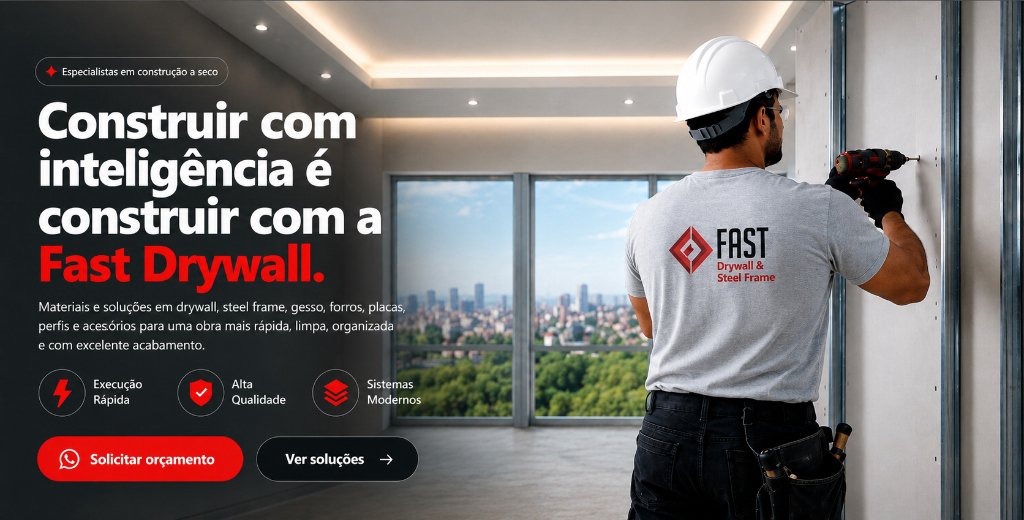
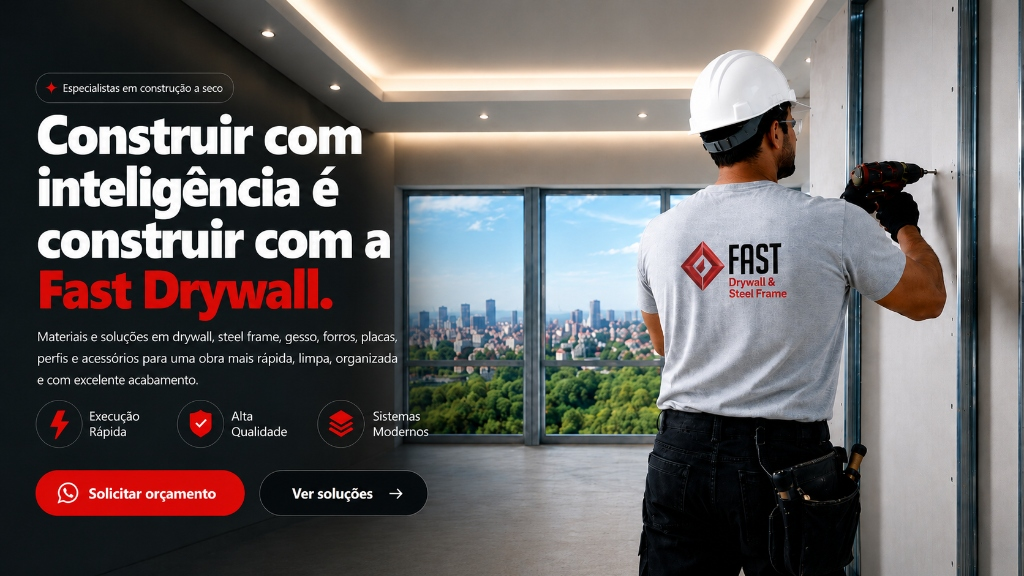
Apply final clean hero image with interactive WhatsApp CTA

diff --git a/src/routes/index.tsx b/src/routes/index.tsx
@@ -146,7 +146,7 @@ function Index() {
       </header>
 
       <main>
-        <section id="inicio" className="relative aspect-[1024/520] w-full overflow-hidden bg-zinc-950">
+        <section id="inicio" className="relative aspect-[16/9] w-full overflow-hidden bg-zinc-950">
           <img src={heroImage} alt="Fast Drywall: construir com inteligência" className="absolute inset-0 h-full w-full object-contain object-center" />
           <h1 className="sr-only">Construir com inteligência é construir com a Fast Drywall.</h1>
           <a
@@ -155,11 +155,11 @@ function Index() {
             rel="noopener noreferrer"
             onClick={(event) => handleExternal(event, budgetUrl)}
             aria-label="Solicitar orçamento pelo WhatsApp"
-            className="absolute bottom-[8.5%] left-[4.2%] z-10 flex h-[8.4%] w-[20%] cursor-pointer items-center justify-center rounded-full bg-[#d71920] font-black text-white text-[clamp(9px,1.25vw,17px)] leading-none shadow-lg transition-all duration-300 ease-in-out hover:scale-[1.03] hover:bg-[#25D366] hover:shadow-2xl hover:shadow-emerald-500/50 focus:outline-none focus:ring-4 focus:ring-emerald-400/60"
+            className="absolute bottom-[9.5%] left-[4.2%] z-10 flex h-[7.8%] w-[20%] cursor-pointer items-center justify-center rounded-full bg-[#d71920] font-black text-white text-[clamp(9px,1.25vw,17px)] leading-none shadow-lg transition-all duration-300 ease-in-out hover:scale-[1.03] hover:bg-[#25D366] hover:shadow-2xl hover:shadow-emerald-500/50 focus:outline-none focus:ring-4 focus:ring-emerald-400/60"
           >
             <span className="truncate px-1">Solicitar orçamento</span>
           </a>
-          <a href="#servicos" aria-label="Ver soluções" className="absolute bottom-[8.5%] left-[25.5%] z-10 flex h-[8.4%] w-[16.5%] cursor-pointer items-center justify-center rounded-full bg-transparent text-transparent focus:outline-none focus:ring-4 focus:ring-white/70">Ver soluções</a>
+          <a href="#servicos" aria-label="Ver soluções" className="absolute bottom-[9.5%] left-[25.5%] z-10 flex h-[7.8%] w-[16.5%] cursor-pointer items-center justify-center rounded-full bg-transparent text-transparent focus:outline-none focus:ring-4 focus:ring-white/70">Ver soluções</a>
         </section>
 
         <section id="sobre" className="py-20 lg:py-24"><div className="mx-auto grid max-w-7xl items-stretch gap-12 px-5 lg:grid-cols-2 lg:px-8"><div className="flex w-full items-center justify-center overflow-hidden rounded-3xl bg-white shadow-2xl lg:min-h-[560px]"><img src={storeImg} alt="Fachada da Fast Drywall em Vitória da Conquista" className="block h-auto max-h-[560px] w-full object-contain" /></div><div className="flex h-full flex-col justify-center"><p className="text-xs font-black uppercase tracking-[.25em] text-red-600">Quem somos</p><h2 className="mt-3 text-4xl font-black sm:text-5xl">Sua obra começa com a escolha certa.</h2><p className="mt-6 text-base leading-8 text-zinc-600">A Fast Drywall &amp; Steel Frame VCA é uma loja especializada em materiais e soluções para construção a seco em Vitória da Conquista. Trabalhamos com drywall, steel frame, placas, gesso, forros, perfis e acessórios, com atendimento especializado, variedade de produtos e suporte para sua obra.</p><div className="mt-8 grid gap-4 sm:grid-cols-2">{[{ icon: ShieldCheck, title: "Produtos de qualidade" }, { icon: Package, title: "Estoque completo" }, { icon: Users, title: "Equipe especializada" }, { icon: MessageCircle, title: "Suporte para sua obra" }].map(({ icon: Icon, title }) => <div key={title} className="rounded-2xl border border-zinc-200 bg-white/90 p-5 transition hover:-translate-y-1 hover:shadow-xl"><Icon className="h-6 w-6 text-red-600" /><p className="mt-4 font-black">{title}</p></div>)}</div></div></div></section>
